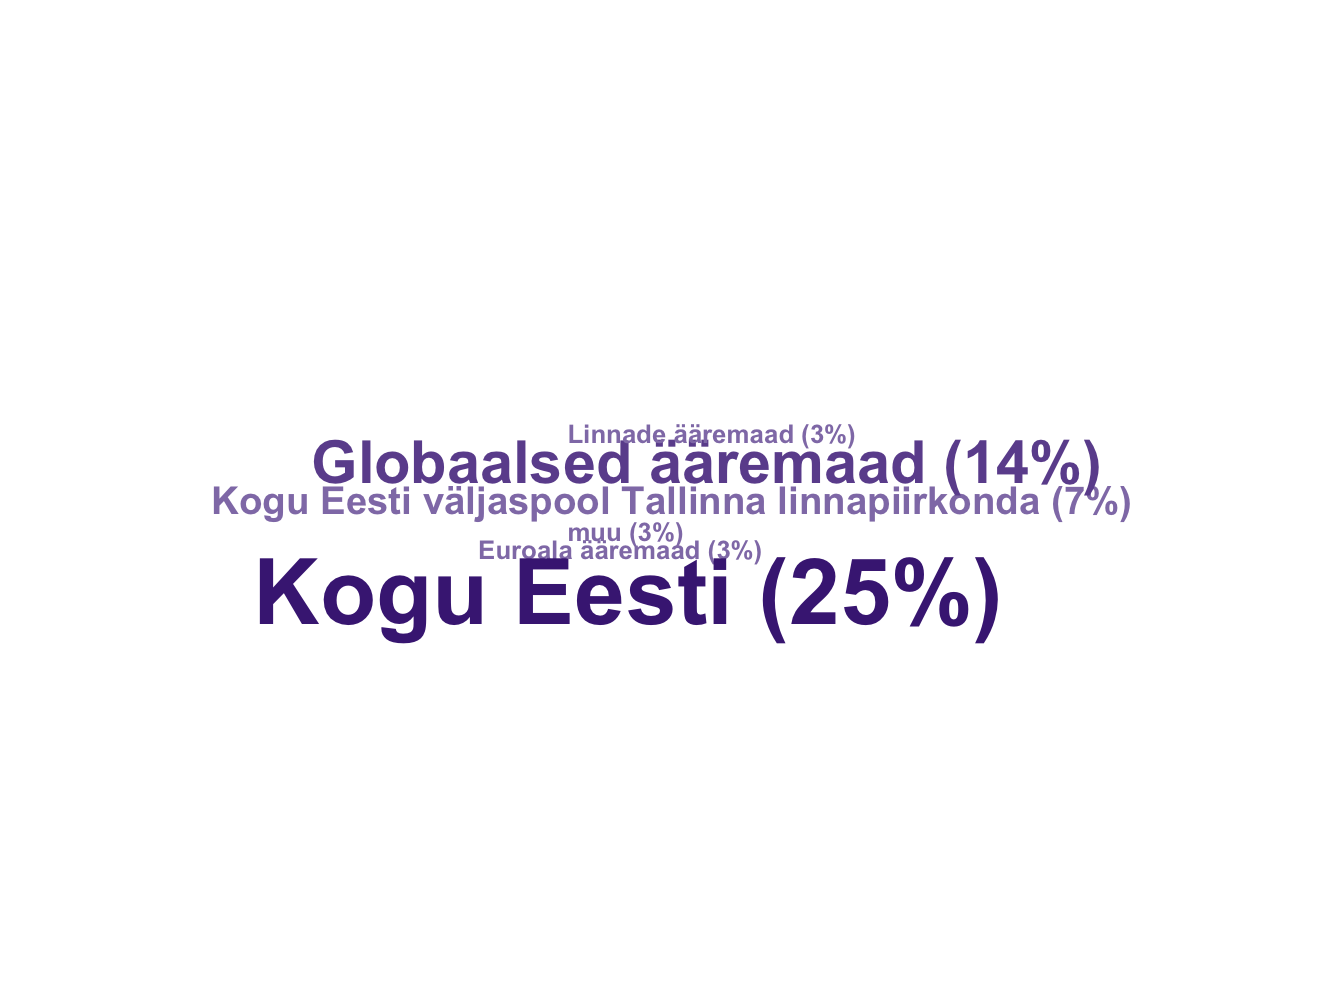
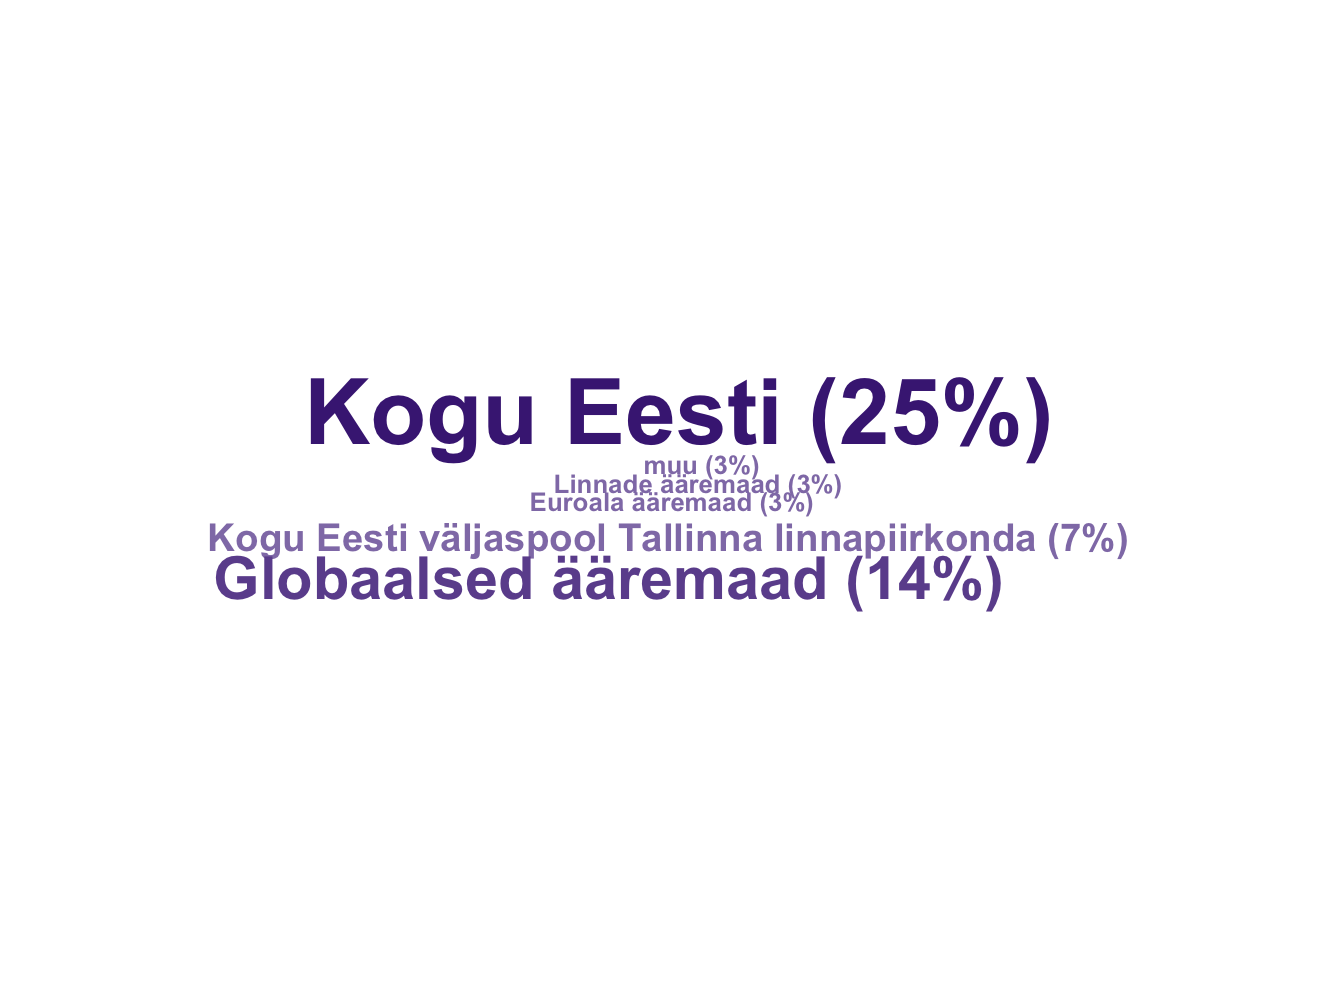
updated heading spacing

Changed region(s): [[0.1562, 0.369, 0.8438, 0.6458]]

diff --git a/eia.css b/eia.css
@@ -214,6 +214,7 @@ h3 .header-section-number{
   position:absolute;
 	top:15vh;
   max-width:800px;
+  margin-top:0 !important;
   margin:auto;
 }
 
@@ -237,6 +238,13 @@ h3 .header-section-number{
   .intro_section h1 {
   font-size:2em !important;
   top:7vh;
+}
+}
+
+@media only screen and (max-height: 576px) {
+  .intro_section h1 {
+  font-size:2.5em !important;
+  top:5vh;
 }
 }
   
